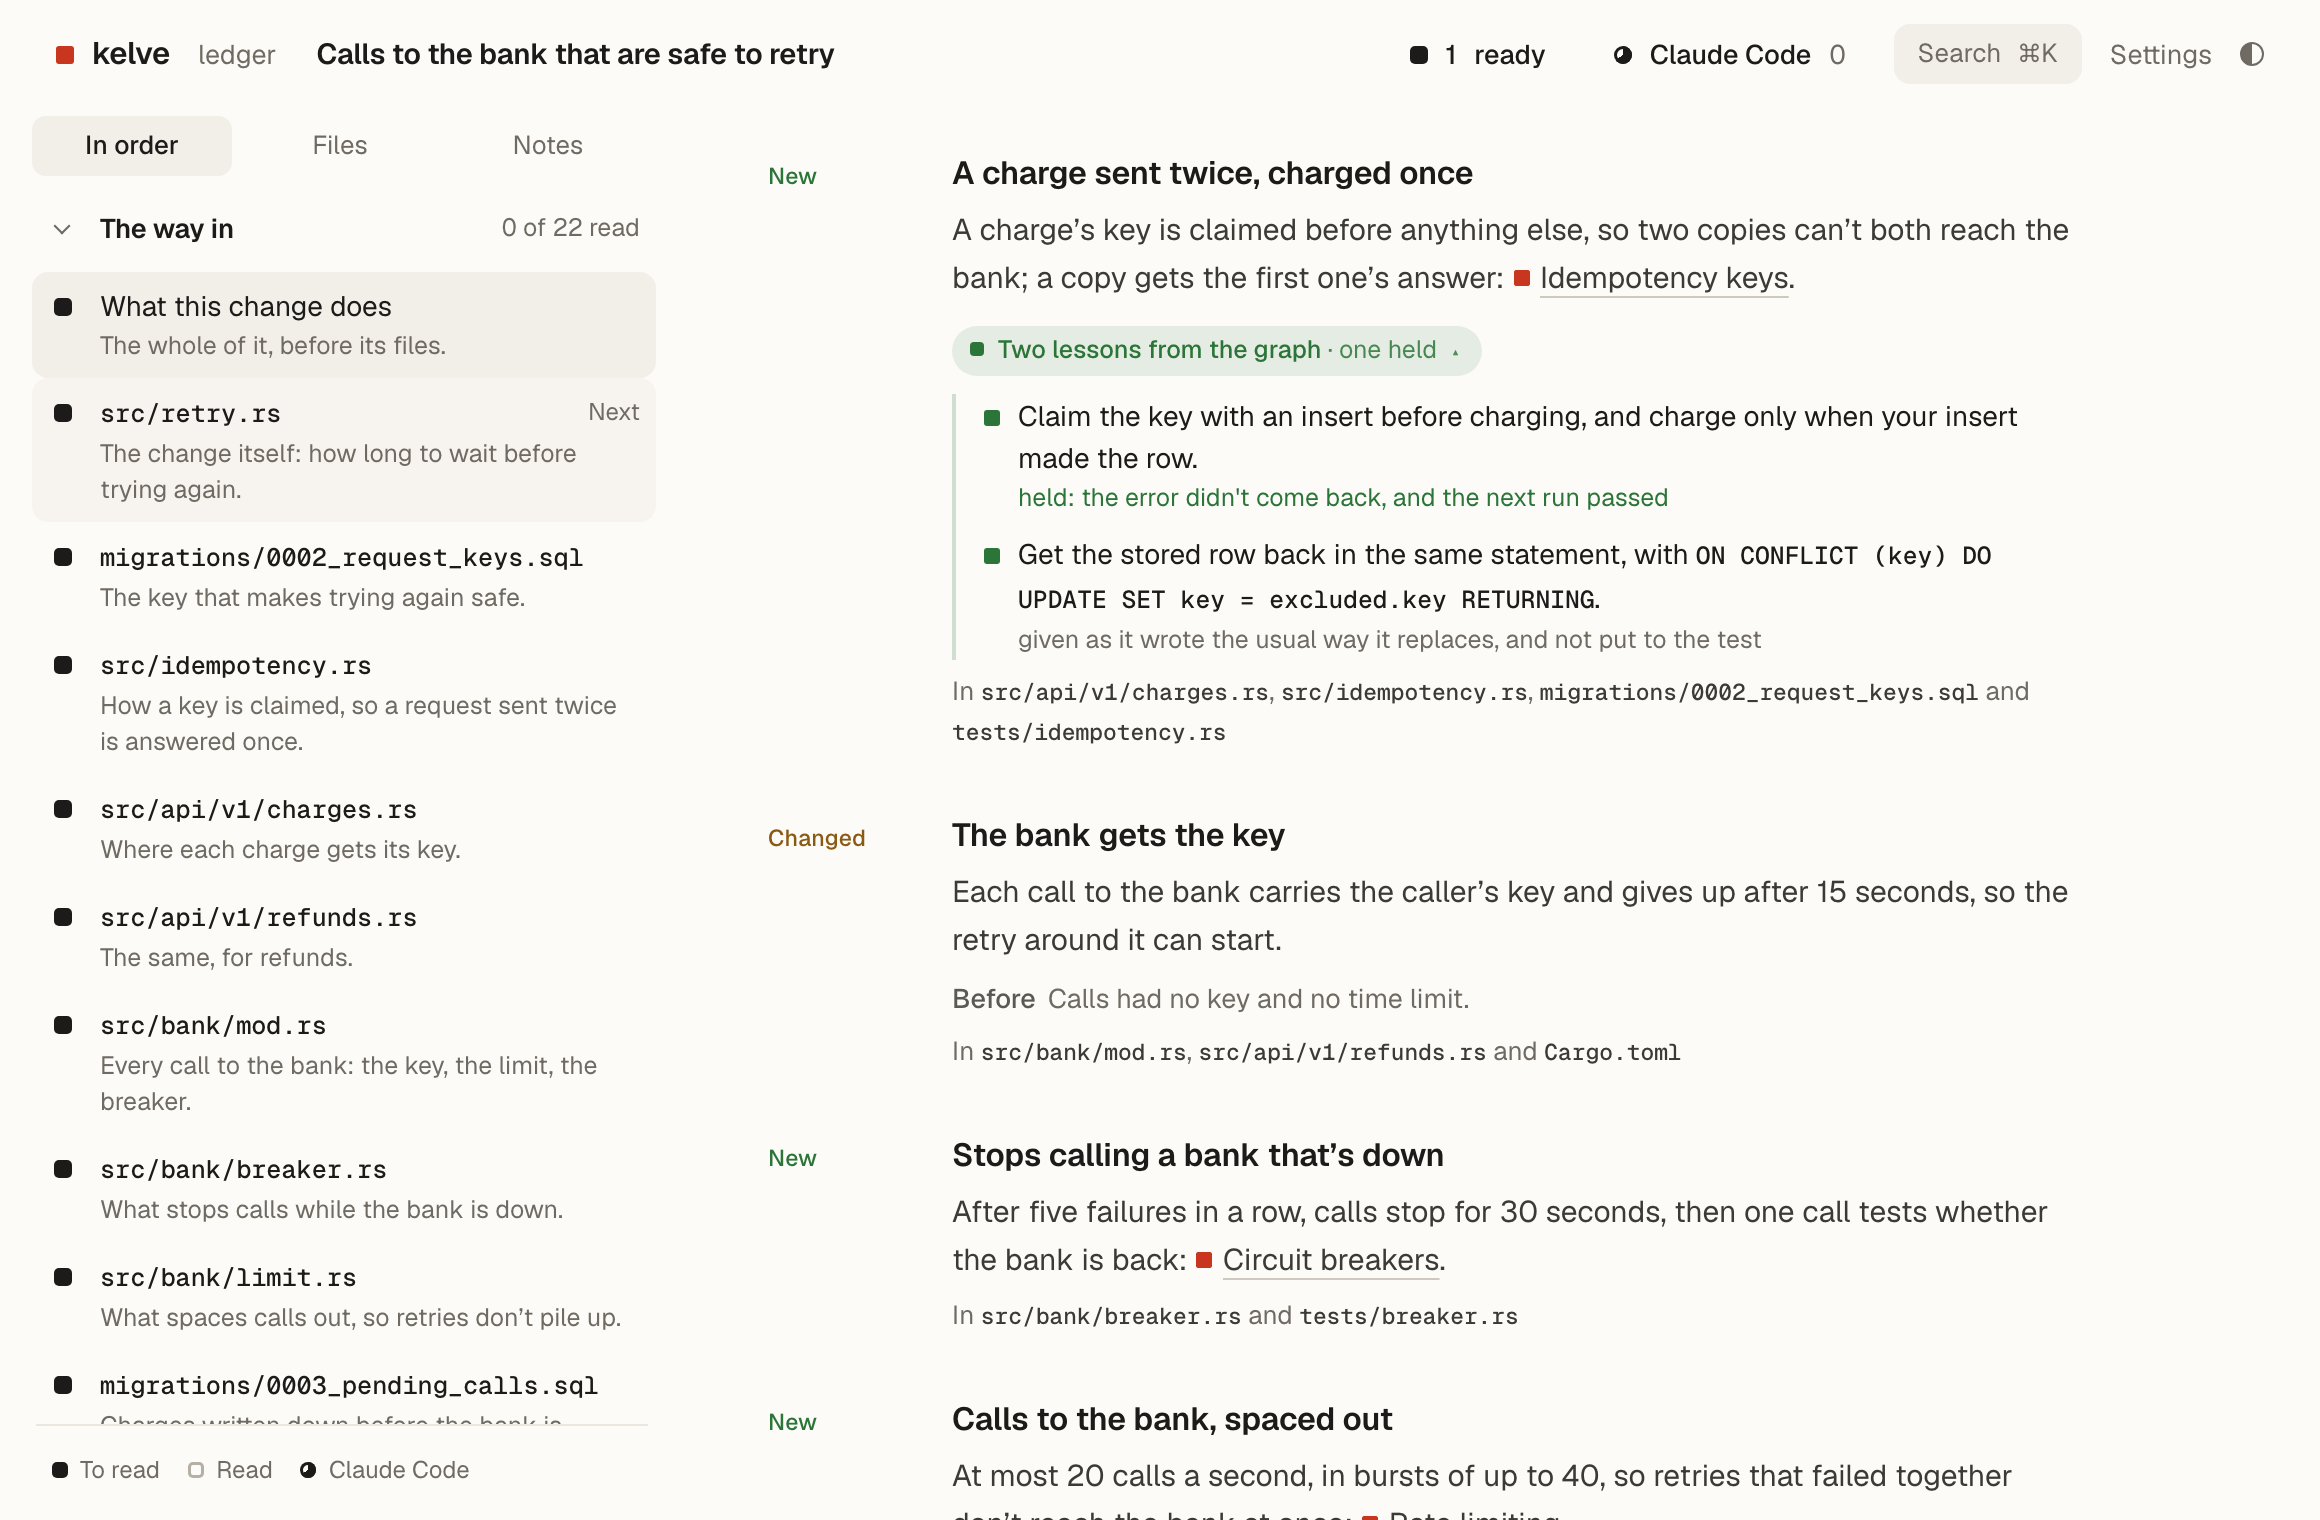
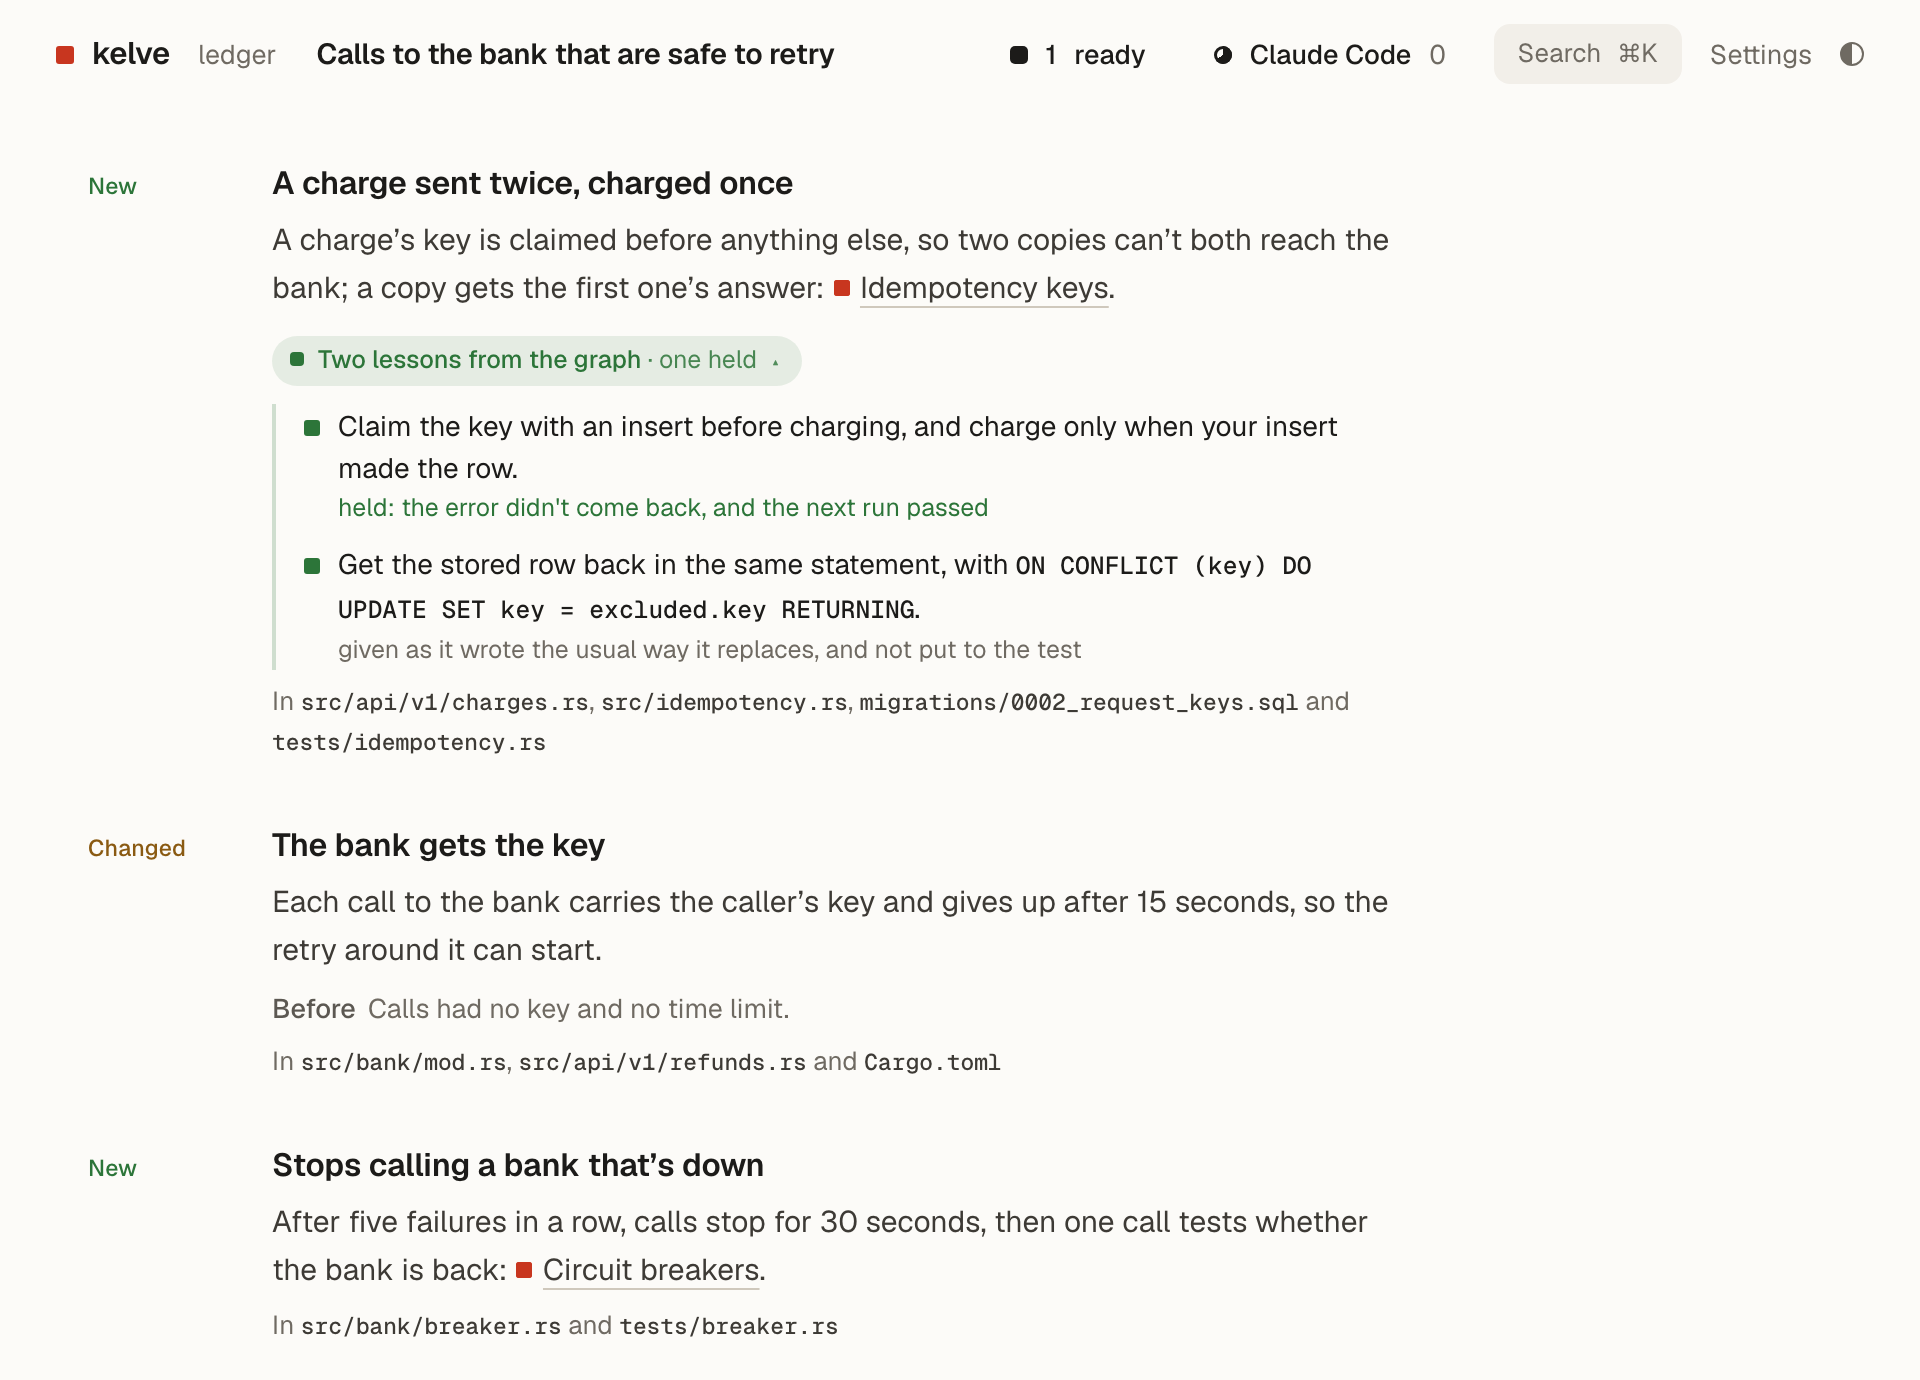
README: four screenshots that each show several things
Nine screenshots made the tour long. Now there are four, without the
sidebar where it isn't the point: the change's own page, a file read
plainly with one part's code and its ideas open, an idea's entry beside
the work, and the lessons a part was given. Notes, the list and what
kelve marks are said in a line or two. The opening says where the 1,194
lines come from.

diff --git a/README.md b/README.md
@@ -25,77 +25,40 @@ Works with Claude Code, Codex, Cursor and other agents.
 
 ---
 
-**1,194 lines. You didn’t write them. You’re about to merge them.**
+**Say you ask your agent to make calls to a bank retry properly. It comes back with 1,194 lines across 21 files.**
 
-The diff shows you every line. It doesn’t show you what they do, or why. Here’s one change, the way kelve shows it.
+The diff shows you every line, but not what they do or why. Here’s that change, the way kelve shows it.
 
 ## It starts with what changed.
 
-One sentence for the whole change, before any files. Then what it did before, and what it does now.
+One sentence for the whole change, before any files. Then what it fixed, how it works now part by part, and how many of its ideas the shared graph already explains. Then the way in: the files in the order that makes sense, so you can stop when you know enough.
 
 <picture>
   <source media="(prefers-color-scheme: dark)" srcset=".github/assets/change-dark.png">
-  <img src=".github/assets/change-light.png" width="880" alt="kelve open on a change’s own page: in a sentence, calls to the bank now wait longer each time, at a random point, and stop while the bank is down; a charge sent twice is taken once, and one left hanging is finished. Then what Claude Code said, where it fits, what it fixes, that 16 of its 18 ideas already had an entry in the shared graph, and How it works now, the first of its seven parts with a line on what it does. The way in is beside it.">
+  <img src=".github/assets/change-light.png" width="880" alt="A change’s own page in kelve: calls to the bank now wait longer each time, at a random point, and stop while the bank is down; a charge sent twice is taken once, and one left hanging is finished. Then what Claude Code said, where it fits, what it fixes, that 16 of its 18 ideas already had an entry in the shared graph, and the first of its seven parts, each with the ideas it rests on.">
 </picture>
 
-## Then the way in.
+## Each file in plain words, the code a click away.
 
-The files in the order that makes sense, each building on the last. Start at once. Stop when you know enough.
-
-<picture>
-  <source media="(prefers-color-scheme: dark)" srcset=".github/assets/way-in-dark.png">
-  <img src=".github/assets/way-in-light.png" width="880" alt="The way in, beside the change’s page: what this change does, then src/retry.rs, then the migration that makes trying again safe, then the rest of its 21 files, each with a line on what it’s for.">
-</picture>
-
-## Each file in plain words. Or the code. Or both.
-
-What it’s for, then each part, in the order things happen. Switch to the code, or open the lines under any part. kelve checks every sentence against the lines it explains.
+What it’s for, then each part in the order things happen, with what it did before. Open the lines under any part, and each idea the work rests on sits beside the lines that use it. kelve checks every sentence against the lines it explains, and marks as much as you ask it to.
 
 <picture>
   <source media="(prefers-color-scheme: dark)" srcset=".github/assets/plainly-dark.png">
-  <img src=".github/assets/plainly-light.png" width="880" alt="src/retry.rs read plainly: what it does in a sentence, what uses it and what it fixes, then How it works, its four parts in the order they happen, each with a line on what it does, the lines it’s in, and Show the code.">
-</picture>
-
-<picture>
-  <source media="(prefers-color-scheme: dark)" srcset=".github/assets/code-dark.png">
-  <img src=".github/assets/code-light.png" width="880" alt="src/retry.rs as code: what the change added and took out, with squares beside the lines that use Exponential backoff and Jitter, and a line on each idea in the margin.">
-</picture>
-
-## The ideas behind it, marked for you.
-
-Each idea the work rests on gets a square, beside the lines that use it. Set how much to mark overall, then add the areas you know better, or less well.
-
-<picture>
-  <source media="(prefers-color-scheme: dark)" srcset=".github/assets/marks-dark.png">
-  <img src=".github/assets/marks-light.png" width="880" alt="The code, with squares beside the lines that use Exponential backoff and Jitter, and what kelve marks beside it: Working overall, rust at Deep, distributed systems at New, postgresql and sql at Learning.">
+  <img src=".github/assets/plainly-light.png" width="880" alt="src/retry.rs read plainly: what it does, what it fixes, then its parts in the order they happen. One part’s code is open under it, with Exponential backoff and Jitter beside the lines that use them.">
 </picture>
 
 ## Go as deep as you like.
 
-Click an idea and it opens beside the work. Click what it rests on, and that opens beside it. Keep going, down to first principles.
+Click an idea and its entry opens beside the work, from a shared graph checked against its sources. Click what it rests on, and keep going, down to first principles.
 
 <picture>
-  <source media="(prefers-color-scheme: dark)" srcset=".github/assets/deeper-dark.png">
-  <img src=".github/assets/deeper-light.png" width="880" alt="Jitter’s entry, on why to add randomness to when clients retry, with Randomness, which it rests on, open beside it: from the shared graph, checked against 4 sources.">
+  <source media="(prefers-color-scheme: dark)" srcset=".github/assets/entry-dark.png">
+  <img src=".github/assets/entry-light.png" width="880" alt="src/retry.rs read plainly, with the entry for Exponential backoff open beside it: from the shared graph, checked against 3 sources, with how it works in plain words.">
 </picture>
 
-## Leave a note, for you or your agent.
+## Leave notes. Your agent picks them up.
 
-Select lines and write. Keep it just for you, or with the work, for anyone who opens it. Or leave it for your agent: it does it the next time you message it, then shows you what it changed.
-
-<picture>
-  <source media="(prefers-color-scheme: dark)" srcset=".github/assets/note-dark.png">
-  <img src=".github/assets/note-light.png" width="880" alt="A note under lines 31 to 33 of the code, for Claude Code, first on its list: refunds shouldn’t wait 30 seconds, cap them at 10.">
-</picture>
-
-## Its list is your queue.
-
-Everything you’ve asked of your agent, in order. Add to it while it works. Move what matters up.
-
-<picture>
-  <source media="(prefers-color-scheme: dark)" srcset=".github/assets/list-dark.png">
-  <img src=".github/assets/list-light.png" width="880" alt="Claude Code’s list beside a file, while it works: now, reading the way in, 2 of 21, and folder pages for the way in; next, folder pages for the rest, and a note for Claude Code; ready for you, Jitter’s entry.">
-</picture>
+Select lines and write: just for you, with the work for anyone who opens it, or for your agent. Your agent does it the next time you message it, then shows you what it changed. Everything you’ve asked of it is one list you can reorder while it works.
 
 ## See what it learned.
 
@@ -103,7 +66,7 @@ When an agent learns something the hard way, it writes it down in the shared gra
 
 <picture>
   <source media="(prefers-color-scheme: dark)" srcset=".github/assets/lesson-dark.png">
-  <img src=".github/assets/lesson-light.png" width="880" alt="A part of the change with the two lessons from the graph Claude Code was given, opened: one, to claim a charge’s key with an insert before charging, held; the other wasn’t put to the test. Below it, the parts that stop calling a bank that’s down and space calls out.">
+  <img src=".github/assets/lesson-light.png" width="880" alt="A part of the change with the two lessons from the shared graph Claude Code was given, opened: one, to claim a charge’s key with an insert before charging, held; the other wasn’t put to the test.">
 </picture>
 
 ## Not only changes.
